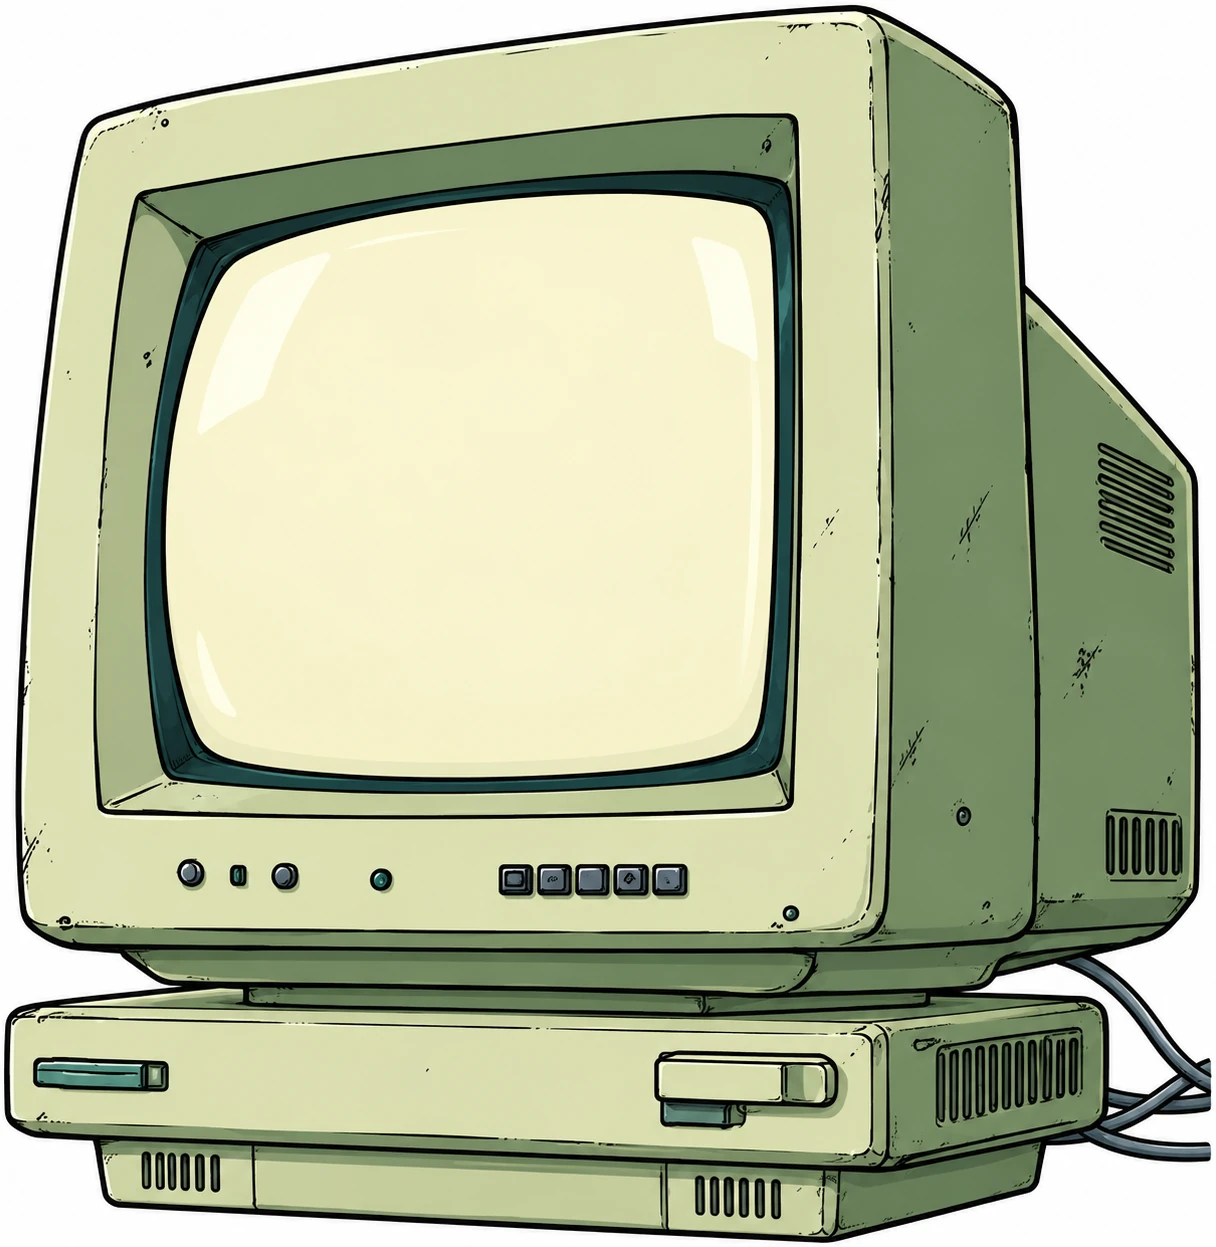
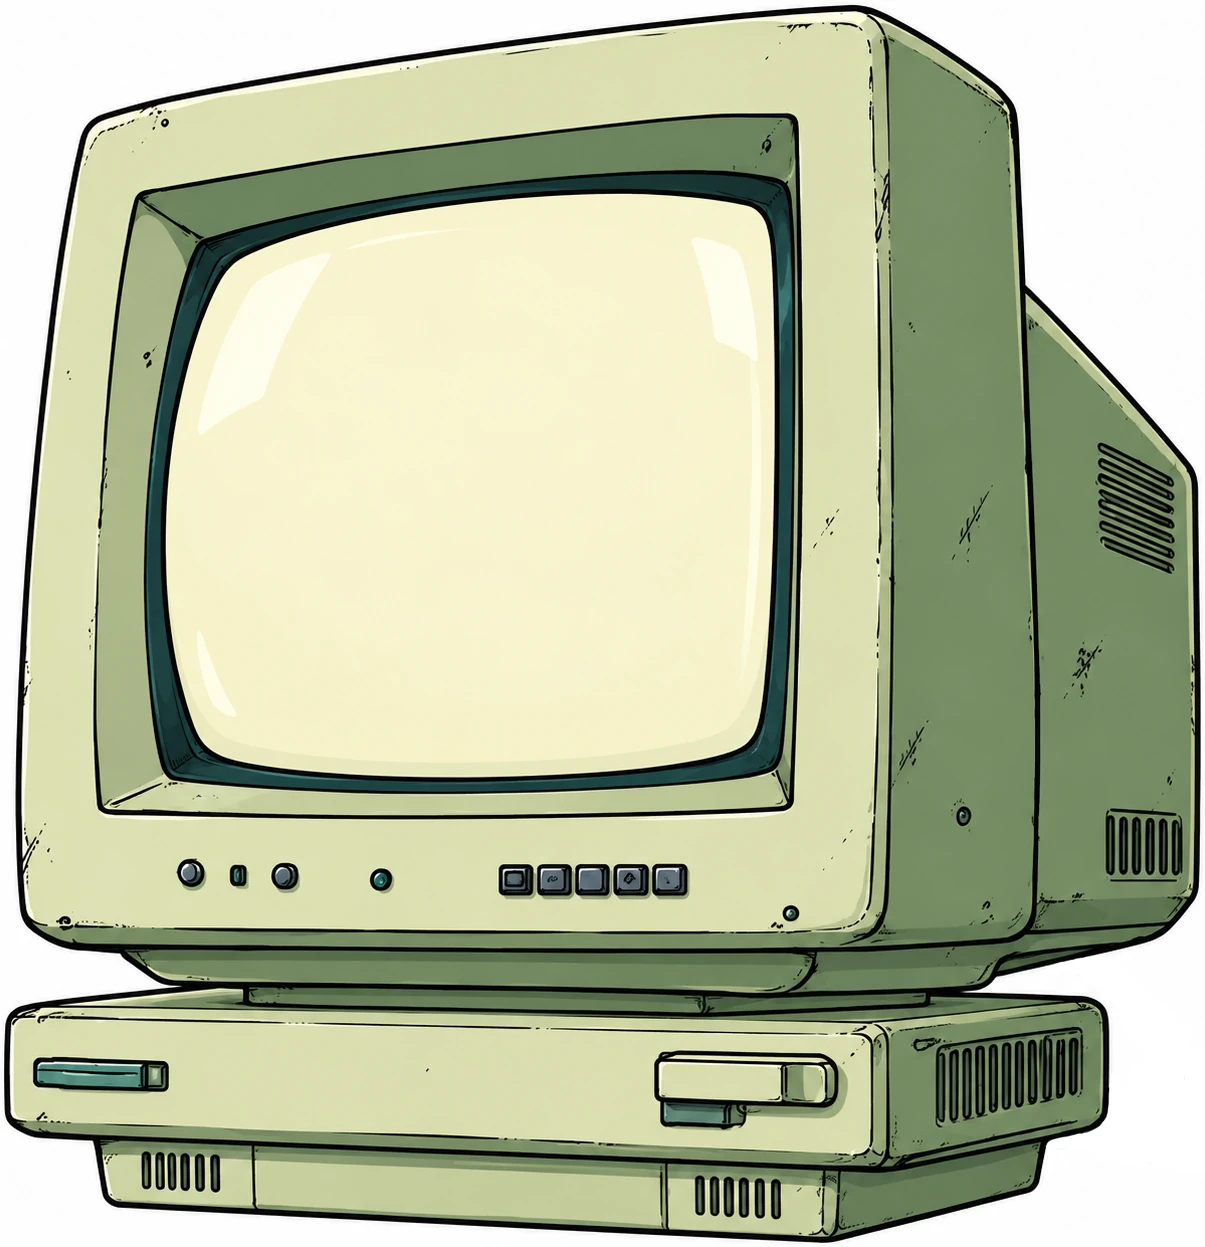
Letter TV: replace computer TV with wire-free version
Claude-Session: https://claude.ai/code/session_01TiZPZdgnhWzH7kDhxekASx

diff --git a/frontend/src/components/letterTv/screens.js b/frontend/src/components/letterTv/screens.js
@@ -9,7 +9,7 @@ import teal from './assets/tvs/tv-teal.webp';
 // of that image. Measured from the art; tune these numbers if a letter ever looks off-centre.
 export const TVS = {
   purple: {src: purple, width: 1236, height: 1236, screen: {left: 31.72, top: 31.15, width: 47.65, height: 43.2}},
-  beige: {src: beige, width: 1216, height: 1247, screen: {left: 13.65, top: 15.56, width: 50.0, height: 45.63}},
+  beige: {src: beige, width: 1205, height: 1247, screen: {left: 13.78, top: 15.56, width: 50.46, height: 45.63}},
   blue: {src: blue, width: 1230, height: 1215, screen: {left: 26.02, top: 32.51, width: 51.22, height: 44.53}},
   yellow: {src: yellow, width: 1247, height: 1237, screen: {left: 17.08, top: 16.01, width: 51.64, height: 43.73}},
   orange: {src: orange, width: 1252, height: 1241, screen: {left: 34.58, top: 28.04, width: 51.76, height: 44.24}},
